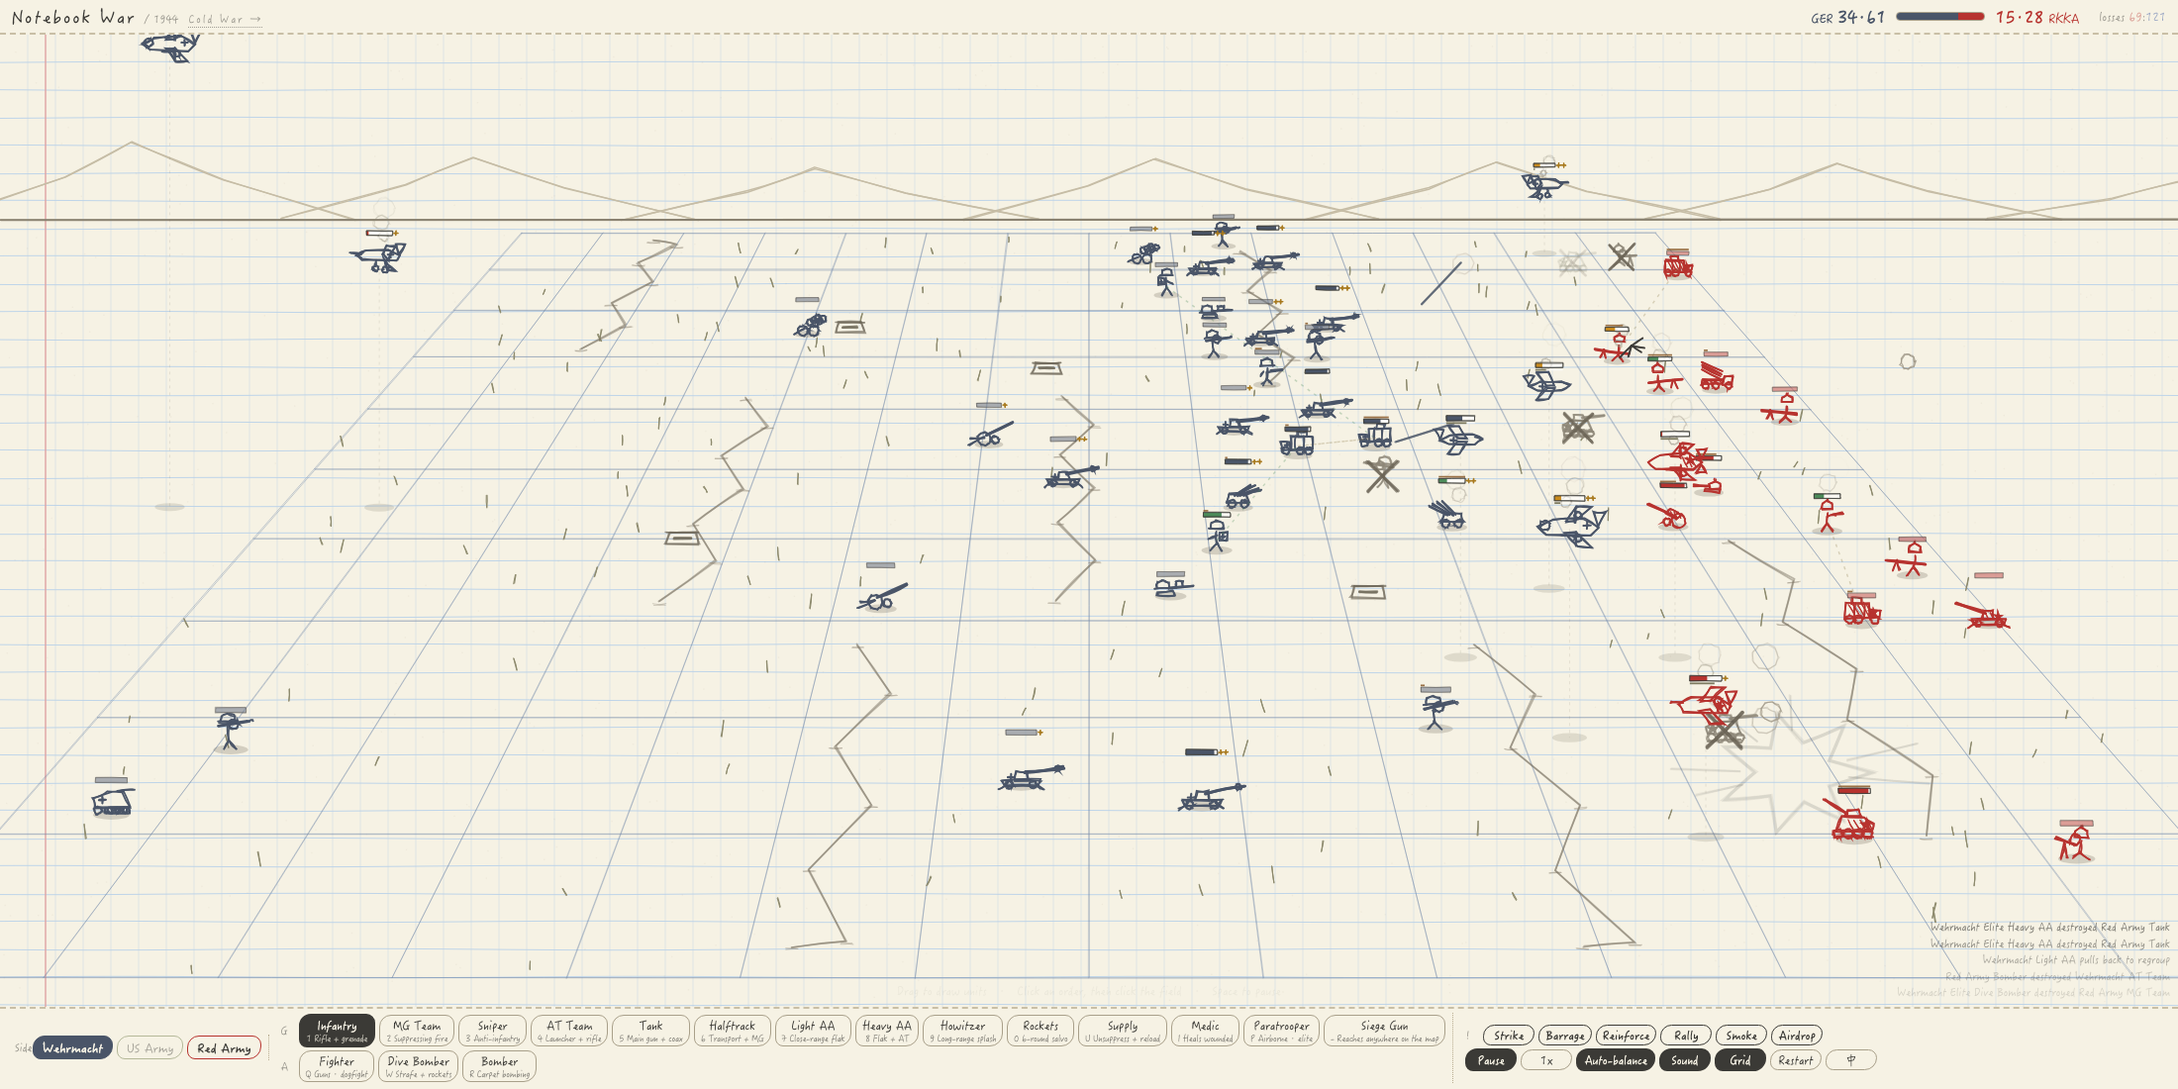
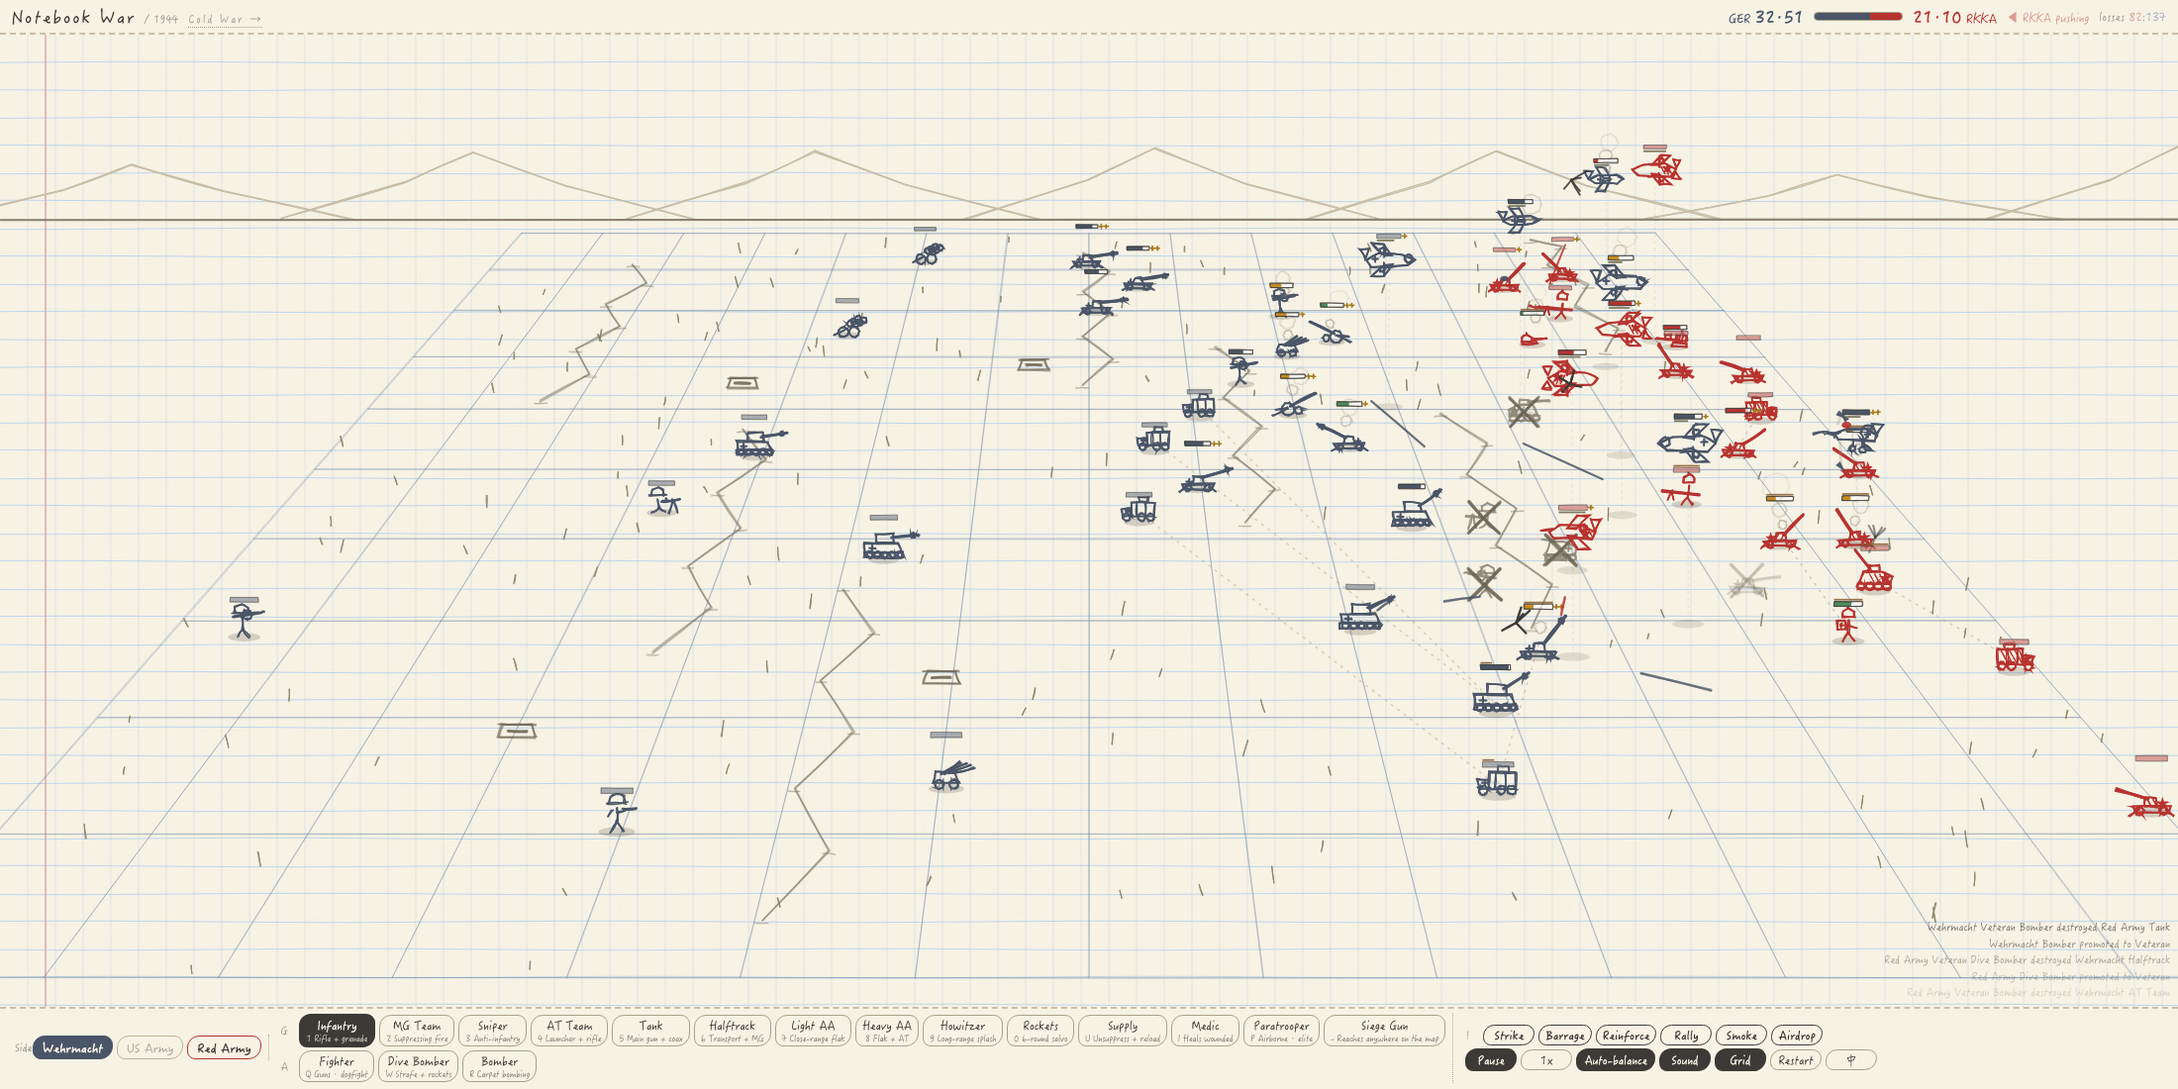
一战二战各添一批奇观；攻城炮按底盘分三种画法
一战新增五个：
- 飞行马戏团（德）：Jasta 11 整队进场，四架全是精锐
- 康布雷坦克楔（英）：史上第一次坦克集群突击，七辆 Mk.IV 一起压上
- 暴风突击（德）：1918 春季攻势 —— 徐进弹幕在前、突击队跟着推进，
  把两个已有机制串成一套
- 气球猎手（法）：带前置条件，敌方天上有观测气球才会触发，给气球一个天敌
- 圣诞休战（不属任何一方）：全场停火 15 秒，谁都不开枪。实测休战前开火
  12 次、休战期间 0 次

二战新增四个：
- 魏特曼的虎式（德）：一辆点名的精锐虎式，血量 2.3 倍，血条旁挂一顶小冠，
  被打掉时日志带 ★
- 市场花园（美）：12 具伞降铺满敌后
- 千机大轰炸（美）：轰炸机从 4 架变成一整排横穿画面
- 反坦克炮阵（苏）：五门 85mm 突然在装甲必经之路上展开

奇观框架顺带支持了两件事：nat < 0 表示不属于任何一方（圣诞休战用），
以及 when 前置条件（气球猎手用）。

攻城炮画风三家一样（Nate 指出）—— 而且原来一律画成铁路平车，可是只有
古斯塔夫真在铁路上。按底盘重画：
- 一战 英 14 吋 / 法 320mm = 铁路平车；德 42cm 大贝尔莎 = 巨型轮式＋短粗榴弹炮管
- 二战 德 80cm 古斯塔夫 = 双排转向架＋超长炮管；美 240mm M1 = 牵引双轮＋分开驻锄；
  苏 B-4 = 履带底盘
铁道也只给真在铁路上的那家铺。

diff --git a/ww1.html b/ww1.html
@@ -781,6 +781,7 @@ function update(dt) {
     shells[i].t -= dt;
     if (shells[i].t <= 0) { shells[i].fn(); shells.splice(i, 1); }
   }
+  if (truce > 0) truce -= dt;                        // 停火期间谁都不开枪
   evTimer -= dt;                                     // 战场奇观：自己会来，不用你操作
   if (evTimer <= 0) { evTimer = rnd(60, 105); runSpectacle(); }
 
@@ -1061,7 +1062,7 @@ function update(dt) {
                    (u.boost ? .7 : 1) * (u.resupplied ? .85 : 1) * (u.prone > .5 ? 1.35 : 1);
     u.resupplied = 0;
     for (const w of u.ws) if (w.cd > 0) w.cd -= dt;
-    if (t && !u.d.suicide && !u.rtb && u.mode === 0 && !u.egress) {   // 脱离途中背对目标，不开火
+    if (t && !u.d.suicide && !u.rtb && u.mode === 0 && !u.egress && truce <= 0) {   // 脱离途中背对目标，不开火
       const wp = pickWeapon(u, t, dist3(u, t));
       if (wp) {
         wp.cd = wp.d.rof * rnd(.85, 1.15) * rofMul;
@@ -1136,7 +1137,7 @@ function update(dt) {
             pushLog(sideName(kr.side) + ' ' + L(kr.d.name) + T('lgPromote') + L(RANK_NAME[nr]));
           }
           pushLog(sideName(kr.side) + ' ' + (kr.rank ? L(RANK_NAME[kr.rank]) + ' ' : '') + L(kr.d.name) +
-                  T('lgDestroy') + sideName(u.side) + ' ' + L(u.d.name));
+                  T('lgDestroy') + sideName(u.side) + ' ' + L(u.d.name) + (u.ace ? ' ★' : ''));
         }
       }
     }
@@ -1345,6 +1346,7 @@ function execCmd(id, wx, wz) {
    Occasional set-pieces that fire on their own — no order, no cooldown button.
    Each belongs to one nation, so you only see it when that nation is in the match. */
 let evTimer = rnd(40, 75);
+let truce = 0;                                     // 停火倒计时（圣诞休战）
 function farSide(side) { return side === 0 ? rnd(WORLD_W * .52, WORLD_W - 70) : rnd(70, WORLD_W * .48); }
 /* Aim a set-piece at where the enemy actually is — a random patch of empty
    field makes for an expensive fireworks display and nothing else */
@@ -1367,12 +1369,14 @@ function skyFall(side, wx, wz, dmg, splash, dur, alt) {
 const shells = [];
 function setTimeoutShell(delay, fn) { shells.push({ t: delay, fn }); }
 function runSpectacle() {
-  const pool = SPECTACLE.filter(e => e.nat === match[0] || e.nat === match[1]);
+  /* nat < 0 = 不属于任何一方，随便挑一边发动；when 用来卡前置条件 */
+  const ok = e => (e.nat < 0 || e.nat === match[0] || e.nat === match[1]);
+  const pool = SPECTACLE.filter(e => ok(e) && (!e.when || e.when(e.nat < 0 ? 0 : (e.nat === match[0] ? 0 : 1))));
   if (!pool.length) return;
   const e = pick(pool);
-  const side = e.nat === match[0] ? 0 : 1;
+  const side = e.nat < 0 ? (Math.random() < .5 ? 0 : 1) : (e.nat === match[0] ? 0 : 1);
   e.go(side);
-  pushLog('⚑ ' + sideName(side) + ' — ' + L(e.name));
+  pushLog('⚑ ' + (e.nat < 0 ? '' : sideName(side) + ' — ') + L(e.name));
 }
 
 const SPECTACLE = [
@@ -1392,6 +1396,43 @@ const SPECTACLE = [
       const c = enemyCentre(side);
       for (let i = 0; i < 7; i++)
         ordnance(side, c[0] + (i - 3) * 40 * K + rnd(-16, 16), c[1] + rnd(-90, 90) / DEPTH, .4 + i * .5, 110, 120, 1.1);
+    } },
+  { nat: 2, name: ['Flying Circus', '飞行马戏团'], go(side) {
+      /* Jasta 11 — the whole squadron, all aces */
+      for (let i = 0; i < 4; i++) {
+        const u = spawn(side, 'fig', side === 0 ? -40 - i * 50 : WORLD_W + 40 + i * 50, .22 + i * .16);
+        u.rank = 2; u.circus = 1;
+      }
+    } },
+  { nat: 0, name: ['Cambrai wedge', '康布雷坦克楔'], go(side) {
+      /* The first mass tank attack in history */
+      for (let i = 0; i < 7; i++)
+        spawn(side, 'tank', side === 0 ? -30 - i * 42 : WORLD_W + 30 + i * 42, .18 + i * .105);
+    } },
+  { nat: 2, name: ['Stormtrooper push', '暴风突击'], go(side) {
+      /* Spring 1918: the barrage walks, the assault squads follow it in */
+      const c = enemyCentre(side), fwd = side === 0 ? 1 : -1;
+      for (let step = 0; step < 5; step++)
+        for (let i = 0; i < 3; i++)
+          ordnance(side, c[0] - fwd * 150 * K + fwd * step * 46 * K + rnd(-20, 20),
+                   c[1] + (i - 1) * .26, .3 + step * .5, 40, 54, .6);
+      for (let i = 0; i < 6; i++) {
+        const u = spawn(side, 'para', c[0] - fwd * 240 * K + rnd(-30, 30), c[1] + rnd(-.2, .2));
+        u.boost = 14;
+      }
+    } },
+  { nat: 1, name: ['Balloon buster', '气球猎手'],
+    when: side => units.some(u => u.side !== side && u.hp > 0 && u.d.key === 'balloon'),
+    go(side) {
+      for (let i = 0; i < 2; i++) {
+        const u = spawn(side, 'fig', side === 0 ? -30 - i * 60 : WORLD_W + 30 + i * 60, rnd(.2, .8));
+        u.rank = 2;
+      }
+    } },
+  { nat: -1, name: ['Christmas truce', '圣诞休战'], go() {
+      /* Everyone stops shooting. Nothing else in the game does this. */
+      truce = 15;
+      for (const u of units) { u.sup = 0; u.prone = 0; }
     } },
   { nat: 1, name: ['French 75 rafale', '法国 75 速射'], go(side) {
       const c = enemyCentre(side);
@@ -1642,24 +1683,44 @@ const DRAW = {
     if (u.flash > .6) rline(2 + Math.cos(el) * 15, y - 8 - Math.sin(el) * 15,
                             2 + Math.cos(el) * 27, y - 8 - Math.sin(el) * 27, 5);
   },
-  /* Siege gun on a rail carriage: long flat deck, bogies at each end, and a barrel
-     that dwarfs it. The track itself is drawn on the ground layer, running in depth. */
+  /* Siege guns, three different carriages — only two of them are actually on rails.
+     BEF 14in "Boche-Buster" and the French 320mm ride rail trucks; the German
+     42cm Dicke Bertha is a road piece on enormous wheels with a stubby howitzer barrel. */
   rail(u, n) {
-    const y = -9, el = Math.max(.3, u.aimEl);
-    rpoly([[-32, y + 7], [-31, y], [27, y], [30, y + 7]], true);          // flat deck
-    ctx.lineWidth *= .8;
-    rline(-31, y + 3, 28, y + 3);                                          // deck rib
-    ctx.lineWidth /= .8;
-    for (let i = 0; i < 4; i++) { rcirc(-26 + i * 5.5, y + 9, 2.3); rcirc(12 + i * 5.5, y + 9, 2.3); }
-    rpoly([[-26, y + 7], [-6, y + 7], [-6, y + 11], [-26, y + 11]], true); // bogie frames
-    rpoly([[10, y + 7], [30, y + 7], [30, y + 11], [10, y + 11]], true);
-    rpoly([[-12, y], [-10, y - 12], [9, y - 12], [11, y]], true);          // gun cradle
-    rline(-12, y - 6, -20, y - 2);                                         // recoil spade
-    ctx.lineWidth *= 3;
-    const e = barrel(2, y - 10, n === 2 ? 40 : 36, el, u.face);            // the barrel is the whole point
-    ctx.lineWidth /= 3;
-    rcirc(e[0] - Math.cos(el) * 6, e[1] + Math.sin(el) * 6, 2.2);          // muzzle band
-    mark(-20, y - 4, 2.6, n);
+    const el = Math.max(.3, u.aimEl);
+    let e;
+    if (n === 2) {
+      /* Dicke Bertha: wheels taller than the carriage, short fat howitzer barrel */
+      const y = -12;
+      rpoly([[-16, y + 10], [-14, y], [12, y], [15, y + 10]], true);
+      rcirc(-8, y + 10, 10); rcirc(9, y + 10, 10);                    // huge road wheels
+      ctx.lineWidth *= .7;
+      for (let i = 0; i < 6; i++) {                                    // spokes
+        const a = i / 6 * 3.14;
+        rline(-8 - Math.cos(a) * 8, y + 10 - Math.sin(a) * 8, -8 + Math.cos(a) * 8, y + 10 + Math.sin(a) * 8, .8);
+      }
+      ctx.lineWidth /= .7;
+      rline(-14, y + 4, -30, y + 12);                                  // trail
+      rpoly([[-6, y], [-4, y - 8], [6, y - 8], [8, y]], true);
+      ctx.lineWidth *= 4.2;
+      e = barrel(2, y - 6, 20, el, u.face);                            // short, very fat
+      ctx.lineWidth /= 4.2;
+      mark(-11, y - 3, 2.6, n);
+    } else {
+      const y = -9, long = n === 1;
+      rpoly([[-32, y + 7], [-31, y], [27, y], [30, y + 7]], true);
+      ctx.lineWidth *= .8; rline(-31, y + 3, 28, y + 3); ctx.lineWidth /= .8;
+      for (let i = 0; i < 4; i++) { rcirc(-26 + i * 5.5, y + 9, 2.3); rcirc(12 + i * 5.5, y + 9, 2.3); }
+      rpoly([[-26, y + 7], [-6, y + 7], [-6, y + 11], [-26, y + 11]], true);
+      rpoly([[10, y + 7], [30, y + 7], [30, y + 11], [10, y + 11]], true);
+      rpoly([[-12, y], [-10, y - 12], [9, y - 12], [11, y]], true);
+      rline(-12, y - 6, -20, y - 2);
+      ctx.lineWidth *= 2.6;
+      e = barrel(2, y - 10, long ? 40 : 34, el, u.face);
+      ctx.lineWidth /= 2.6;
+      if (long) rcirc(e[0] - Math.cos(el) * 9, e[1] + Math.sin(el) * 9, 2.6);   // recoil sleeve
+      mark(-20, y - 4, 2.6, n);
+    }
     if (u.flash > .4) {
       rcirc(e[0] + Math.cos(el) * 10, e[1] - Math.sin(el) * 10, 11, 6);
       ctx.lineWidth *= 2.4;
@@ -1931,6 +1992,15 @@ function drawHP(u, q, sc) {
       rline(sx - 2, sy, sx + 2, sy, .7); rline(sx, sy - 2, sx, sy + 2, .7);
     }
   }
+  /* 王牌：血条左边一顶小冠，一眼认得出该点名打谁 */
+  if (u.ace) {
+    ctx.globalAlpha = .95;
+    ctx.strokeStyle = '#a8791e'; ctx.lineWidth = 1.4; ctx.lineCap = 'round';
+    seed(u.sd + 21);
+    const cx = q[0] - w / 2 - 5, cy = y + h / 2;
+    rpoly([[cx - 3, cy + 2], [cx - 3, cy - 1], [cx - 1.2, cy + .6], [cx, cy - 2.4],
+           [cx + 1.2, cy + .6], [cx + 3, cy - 1], [cx + 3, cy + 2]], true, .7);
+  }
   /* 鼓舞中：头顶感叹号 */
   if (u.boost > 0) {
     ctx.globalAlpha = .8;
@@ -2095,6 +2165,7 @@ function drawSmoke(s) {
 }
 /* The track a siege gun sits on: laid in depth, so perspective turns it into a
    long line running back towards the vanishing point */
+const ON_RAILS = [true, true, false];                    // 轮式/履带式的那两家没有铁路
 function drawRailTrack(u) {
   ctx.save();
   seed(u.sd + 11); ctx.lineCap = 'round';
@@ -2241,7 +2312,7 @@ const zbuf = [];
 function render() {
   mainCtx.save();
   drawPaper();
-  for (const u of units) if (u.d.key === 'rail' && u.hp > 0) drawRailTrack(u);
+  for (const u of units) if (u.d.key === 'rail' && u.hp > 0 && ON_RAILS[natIdx(u.side)]) drawRailTrack(u);
   for (const w of works) drawWork(w);
   zbuf.length = 0;
   for (const w of wrecks) zbuf.push([w.wz, 0, w]);

diff --git a/index.html b/index.html
@@ -1105,7 +1105,7 @@ function update(dt) {
             pushLog(sideName(kr.side) + ' ' + L(kr.d.name) + T('lgPromote') + L(RANK_NAME[nr]));
           }
           pushLog(sideName(kr.side) + ' ' + (kr.rank ? L(RANK_NAME[kr.rank]) + ' ' : '') + L(kr.d.name) +
-                  T('lgDestroy') + sideName(u.side) + ' ' + L(u.d.name));
+                  T('lgDestroy') + sideName(u.side) + ' ' + L(u.d.name) + (u.ace ? ' ★' : ''));
         }
       }
     }
@@ -1316,10 +1316,11 @@ function skyFall(side, wx, wz, dmg, splash, dur, alt) {
   });
 }
 function runSpectacle() {
-  const pool = SPECTACLE.filter(e => e.nat === match[0] || e.nat === match[1]);
+  const ok = e => (e.nat < 0 || e.nat === match[0] || e.nat === match[1]);
+  const pool = SPECTACLE.filter(e => ok(e) && (!e.when || e.when(e.nat === match[0] ? 0 : 1)));
   if (!pool.length) return;
   const e = pick(pool);
-  const side = e.nat === match[0] ? 0 : 1;
+  const side = e.nat < 0 ? (Math.random() < .5 ? 0 : 1) : (e.nat === match[0] ? 0 : 1);
   e.go(side);
   pushLog('⚑ ' + sideName(side) + ' — ' + L(e.name));
 }
@@ -1334,6 +1335,34 @@ const SPECTACLE = [
       for (let i = 0; i < 2; i++) {
         const u = spawn(side, 'v1', side === 0 ? -30 - i * 70 : WORLD_W + 30 + i * 70, rnd(.2, .8));
         u.alt = 150;
+      }
+    } },
+  { nat: 0, name: ["Wittmann's Tiger", '魏特曼的虎式'], go(side) {
+      /* One tank, named, with a crew that knows what it's doing */
+      const u = spawn(side, 'tank', side === 0 ? -30 : WORLD_W + 30, rnd(.3, .7));
+      u.rank = 2; u.max = Math.round(u.max * 2.3); u.hp = u.max; u.ace = 1;
+    } },
+  { nat: 1, name: ['Market Garden', '市场花园'], go(side) {
+      /* A division's worth of canopies over the enemy's back yard */
+      const c = enemyCentre(side);
+      for (let i = 0; i < 12; i++) {
+        const u = spawn(side, 'para', c[0] + rnd(-210, 210), c[1] + rnd(-.26, .26));
+        u.alt = 270 + i * 16; u.dropping = 1;
+      }
+    } },
+  { nat: 1, name: ['Thousand-bomber raid', '千机大轰炸'], go(side) {
+      for (let i = 0; i < 8; i++) {
+        const u = spawn(side, 'bmb', side === 0 ? -40 - i * 46 : WORLD_W + 40 + i * 46, .1 + i * .105);
+        u.rank = 1;
+      }
+    } },
+  { nat: 2, name: ['Pakfront', '反坦克炮阵'], go(side) {
+      /* A line of guns dug in where the armour has to come through */
+      const wz = rnd(.22, .78);
+      for (let i = 0; i < 5; i++) {
+        const u = spawn(side, 'sam', side === 0 ? rnd(210, 400) : rnd(WORLD_W - 400, WORLD_W - 210),
+                        clamp(wz + (i - 2) * .09, .04, .96));
+        u.rank = 1;
       }
     } },
   { nat: 1, name: ['B-17 formation', 'B-17 编队'], go(side) {
@@ -1570,28 +1599,58 @@ const DRAW = {
     if (u.flash > .6) rline(2 + Math.cos(el) * 15, y - 8 - Math.sin(el) * 15,
                             2 + Math.cos(el) * 27, y - 8 - Math.sin(el) * 27, 5);
   },
-  /* Siege gun on a rail carriage: long flat deck, bogies at each end, and a barrel
-     that dwarfs it. The track itself is drawn on the ground layer, running in depth. */
+  /* Siege guns on three different carriages: 80cm Gustav is the only one on rails
+     (and needs a double row of bogies), the 240mm M1 is towed on wheels, and the
+     Soviet B-4 famously sits on tracks. */
   rail(u, n) {
-    const y = -9, el = Math.max(.3, u.aimEl);
-    rpoly([[-32, y + 7], [-31, y], [27, y], [30, y + 7]], true);          // flat deck
-    ctx.lineWidth *= .8;
-    rline(-31, y + 3, 28, y + 3);                                          // deck rib
-    ctx.lineWidth /= .8;
-    for (let i = 0; i < 4; i++) { rcirc(-26 + i * 5.5, y + 9, 2.3); rcirc(12 + i * 5.5, y + 9, 2.3); }
-    rpoly([[-26, y + 7], [-6, y + 7], [-6, y + 11], [-26, y + 11]], true); // bogie frames
-    rpoly([[10, y + 7], [30, y + 7], [30, y + 11], [10, y + 11]], true);
-    rpoly([[-12, y], [-10, y - 12], [9, y - 12], [11, y]], true);          // gun cradle
-    rline(-12, y - 6, -20, y - 2);                                         // recoil spade
-    ctx.lineWidth *= 3;
-    const e = barrel(2, y - 10, n === 2 ? 40 : 36, el, u.face);            // the barrel is the whole point
-    ctx.lineWidth /= 3;
-    rcirc(e[0] - Math.cos(el) * 6, e[1] + Math.sin(el) * 6, 2.2);          // muzzle band
-    mark(-20, y - 4, 2.6, n);
+    const el = Math.max(.3, u.aimEl);
+    let e;
+    if (n === 0) {
+      /* Schwerer Gustav: absurdly long, two rows of bogies under it */
+      const y = -11;
+      rpoly([[-38, y + 8], [-37, y], [32, y], [36, y + 8]], true);
+      ctx.lineWidth *= .8; rline(-37, y + 3, 34, y + 3); ctx.lineWidth /= .8;
+      for (let i = 0; i < 6; i++) { rcirc(-32 + i * 5, y + 10, 2.1); rcirc(10 + i * 5, y + 10, 2.1); }
+      for (let i = 0; i < 6; i++) { rcirc(-32 + i * 5, y + 14, 2.1); rcirc(10 + i * 5, y + 14, 2.1); }
+      rpoly([[-34, y + 8], [-6, y + 8], [-6, y + 16], [-34, y + 16]], true);
+      rpoly([[8, y + 8], [36, y + 8], [36, y + 16], [8, y + 16]], true);
+      rpoly([[-14, y], [-12, y - 14], [11, y - 14], [13, y]], true);
+      ctx.lineWidth *= 3.4;
+      e = barrel(3, y - 12, 46, el, u.face);
+      ctx.lineWidth /= 3.4;
+      mark(-24, y - 5, 2.8, n);
+    } else if (n === 1) {
+      /* 240mm M1: towed, big split trail */
+      const y = -8;
+      rpoly([[-14, y + 4], [-12, y - 3], [10, y - 3], [13, y + 4]], true);
+      rcirc(-7, y + 6, 5.6); rcirc(8, y + 6, 5.6);
+      rline(-12, y + 2, -30, y + 10); rline(-12, y + 4, -28, y + 13);   // split trail
+      rpoly([[-5, y - 3], [-3, y - 10], [6, y - 10], [8, y - 3]], true);
+      ctx.lineWidth *= 3.2;
+      e = barrel(2, y - 8, 30, el, u.face);
+      ctx.lineWidth /= 3.2;
+      mark(-9, y, 2.4, n);
+    } else {
+      /* B-4: the one on tracks */
+      const y = -8;
+      rpoly([[-20, y + 4], [-18, y - 2], [10, y - 2], [14, y + 4]], true);
+      rpoly([[-21, y + 4], [15, y + 4], [15, y + 10], [-21, y + 10]], true);   // track frame
+      for (let i = 0; i < 7; i++) rcirc(-17 + i * 5, y + 8, 2.2);
+      ctx.lineWidth *= .8;
+      for (let i = 0; i < 9; i++) rline(-20 + i * 4, y + 4.6, -20 + i * 4, y + 9.4, .8);
+      ctx.lineWidth /= .8;
+      rline(-18, y + 2, -32, y + 8);
+      rpoly([[-6, y - 2], [-4, y - 10], [5, y - 10], [7, y - 2]], true);
+      ctx.lineWidth *= 3.6;
+      e = barrel(1, y - 8, 26, el, u.face);
+      ctx.lineWidth /= 3.6;
+      sh(-16, y - 1, 22, 5, 5);
+      mark(-12, y, 2.4, n);
+    }
     if (u.flash > .4) {
-      rcirc(e[0] + Math.cos(el) * 10, e[1] - Math.sin(el) * 10, 11, 6);
+      rcirc(e[0] + Math.cos(el) * 10, e[1] - Math.sin(el) * 10, 12, 6);
       ctx.lineWidth *= 2.4;
-      rline(e[0], e[1], e[0] + Math.cos(el) * 22, e[1] - Math.sin(el) * 22, 3);
+      rline(e[0], e[1], e[0] + Math.cos(el) * 24, e[1] - Math.sin(el) * 24, 3);
       ctx.lineWidth /= 2.4;
     }
   },
@@ -1827,6 +1886,15 @@ function drawHP(u, q, sc) {
       rline(sx - 2, sy, sx + 2, sy, .7); rline(sx, sy - 2, sx, sy + 2, .7);
     }
   }
+  /* 王牌：血条左边一顶小冠，一眼认得出该点名打谁 */
+  if (u.ace) {
+    ctx.globalAlpha = .95;
+    ctx.strokeStyle = '#a8791e'; ctx.lineWidth = 1.4; ctx.lineCap = 'round';
+    seed(u.sd + 21);
+    const cx = q[0] - w / 2 - 5, cy = y + h / 2;
+    rpoly([[cx - 3, cy + 2], [cx - 3, cy - 1], [cx - 1.2, cy + .6], [cx, cy - 2.4],
+           [cx + 1.2, cy + .6], [cx + 3, cy - 1], [cx + 3, cy + 2]], true, .7);
+  }
   /* 鼓舞中：头顶感叹号 */
   if (u.boost > 0) {
     ctx.globalAlpha = .8;
@@ -1981,6 +2049,7 @@ function drawSmoke(s) {
 }
 /* The track a siege gun sits on: laid in depth, so perspective turns it into a
    long line running back towards the vanishing point */
+const ON_RAILS = [true, false, false];                    // 轮式/履带式的那两家没有铁路
 function drawRailTrack(u) {
   ctx.save();
   seed(u.sd + 11); ctx.lineCap = 'round';
@@ -2110,7 +2179,7 @@ const zbuf = [];
 function render() {
   mainCtx.save();
   drawPaper();
-  for (const u of units) if (u.d.key === 'rail' && u.hp > 0) drawRailTrack(u);
+  for (const u of units) if (u.d.key === 'rail' && u.hp > 0 && ON_RAILS[natIdx(u.side)]) drawRailTrack(u);
   for (const w of works) drawWork(w);
   zbuf.length = 0;
   for (const w of wrecks) zbuf.push([w.wz, 0, w]);
